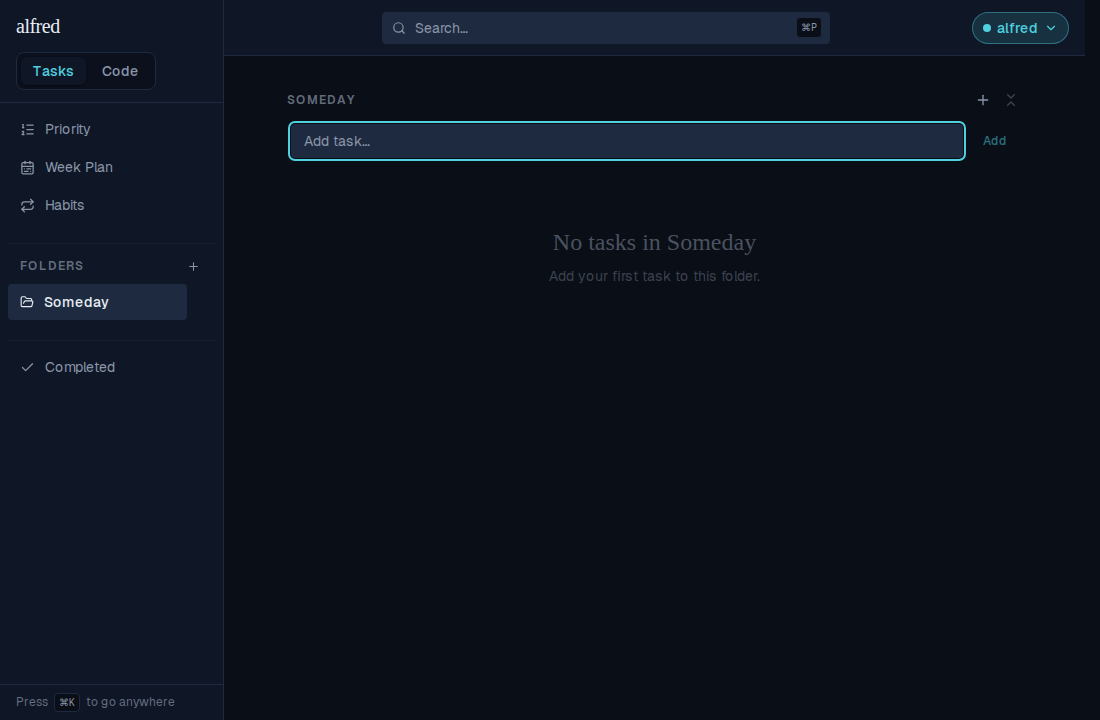
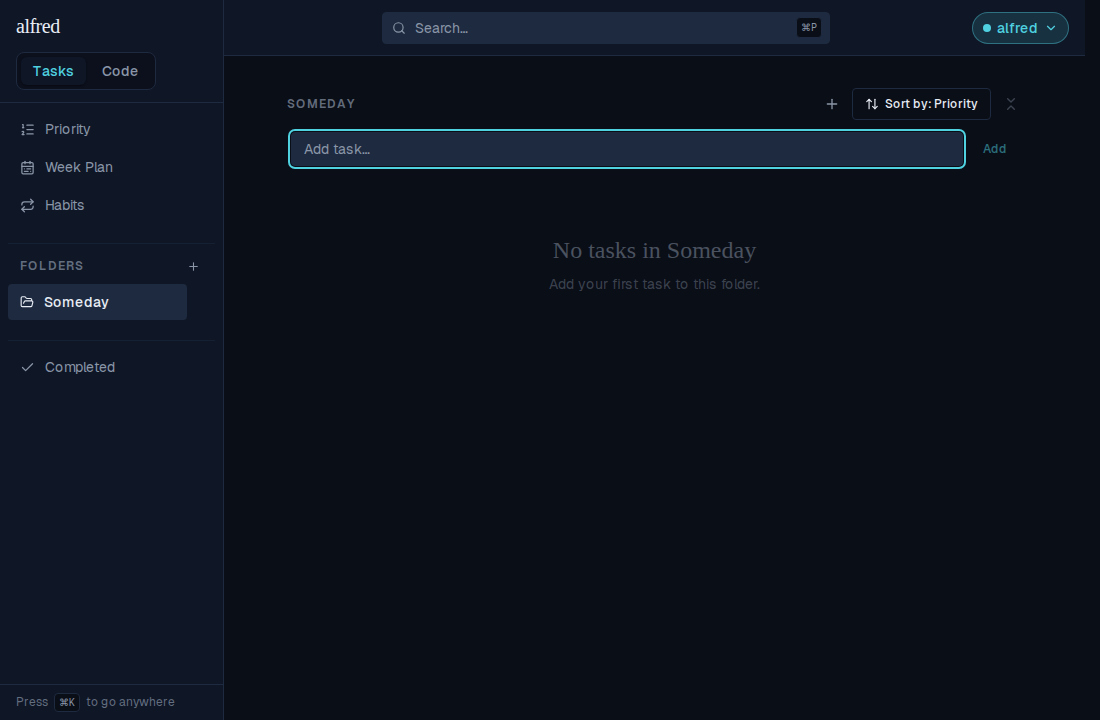
docs(demos): reshoot the folder-capture evidence against the merged header

Changed region(s): [[0.2473, 0.1222, 0.9273, 0.2444], [0.4945, 0.3056, 0.7109, 0.3972], [0.8964, 0.1833, 0.9273, 0.2139]]

diff --git a/docs/demos/folder-capture/folder-capture.md b/docs/demos/folder-capture/folder-capture.md
@@ -10,7 +10,7 @@ Every task in alfred used to be born in the Inbox: filing a thought you already 
 
 ## The folder view, before the "+" is pressed
 
-A "+" sits in the header's right cluster, left of Collapse-all and in the same grey icon-button treatment, so the pair reads as one cluster. It is present at every width.
+A "+" leads the header's right cluster — before the sort control and Collapse-all, in the same grey icon-button treatment — so making a task comes ahead of the controls that arrange them. It is present at every width.
 
 ![](folder-capture-image-1.png)
 
